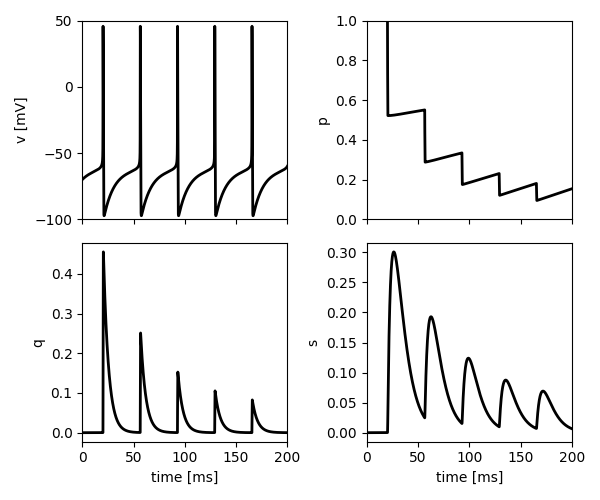
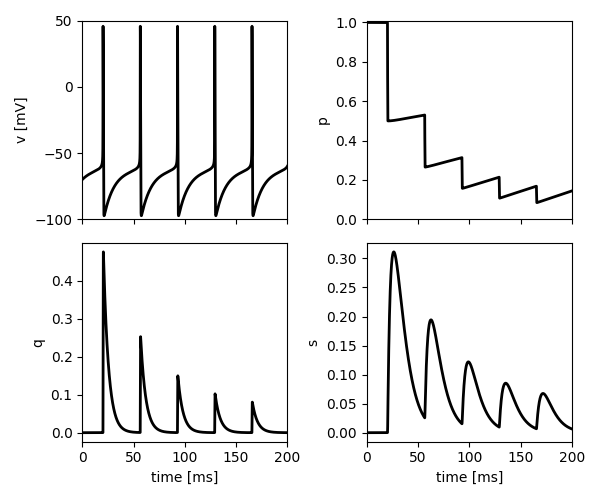
fig 39.2 modified.

diff --git a/python/39_Short-Term_Depression_and_Facilitation/RTM_WITH_DEPRESSING_S/main.py b/python/39_Short-Term_Depression_and_Facilitation/RTM_WITH_DEPRESSING_S/main.py
@@ -86,7 +86,7 @@ tau_d = 9
 x0 = initial_condition(-70)
 
 U = 0.5
-C = 1.45
+C = 1.545 # 1.45
 
 if __name__ == "__main__":
 
@@ -103,7 +103,7 @@ if __name__ == "__main__":
             num_spikes += 1
     gamma = C * (1 + np.tanh(v / 10.0))
     integral_of_delta_function_per_period = np.sum(gamma) * dt / num_spikes
-    
+    print("integral : {}".format(integral_of_delta_function_per_period))
 
     fig, ax = pl.subplots(nrows=2, ncols=2, figsize=(6, 5), sharex=True)
     ax[0, 0].plot(t, v, lw=2, c="k")
@@ -120,7 +120,7 @@ if __name__ == "__main__":
     ax[0, 0].set_yticks(range(-100, 100, 50))
     ax[0, 0].set_ylim(-100, 50)
     ax[0, 1].set_xlim(min(t), max(t))
-    ax[0, 1].set_ylim(0, 1)
+    ax[0, 1].set_ylim(0, 1.01)
 
     pl.tight_layout()
     

diff --git a/python/39_Short-Term_Depression_and_Facilitation/PULSES/main.py b/python/39_Short-Term_Depression_and_Facilitation/PULSES/main.py
@@ -85,6 +85,9 @@ if __name__ == "__main__":
             num_spikes += 1
     gamma = C * (1 + np.tanh(v / 10.0))
     integral_of_delta_function_per_period = np.sum(gamma) * dt / num_spikes
+    print("integral : {}".format(integral_of_delta_function_per_period))
+    print("inverse of integral result : {}".format(1.0/integral_of_delta_function_per_period))
+
     
 
     fig, ax = pl.subplots(2, figsize=(5, 4), sharex=True)
